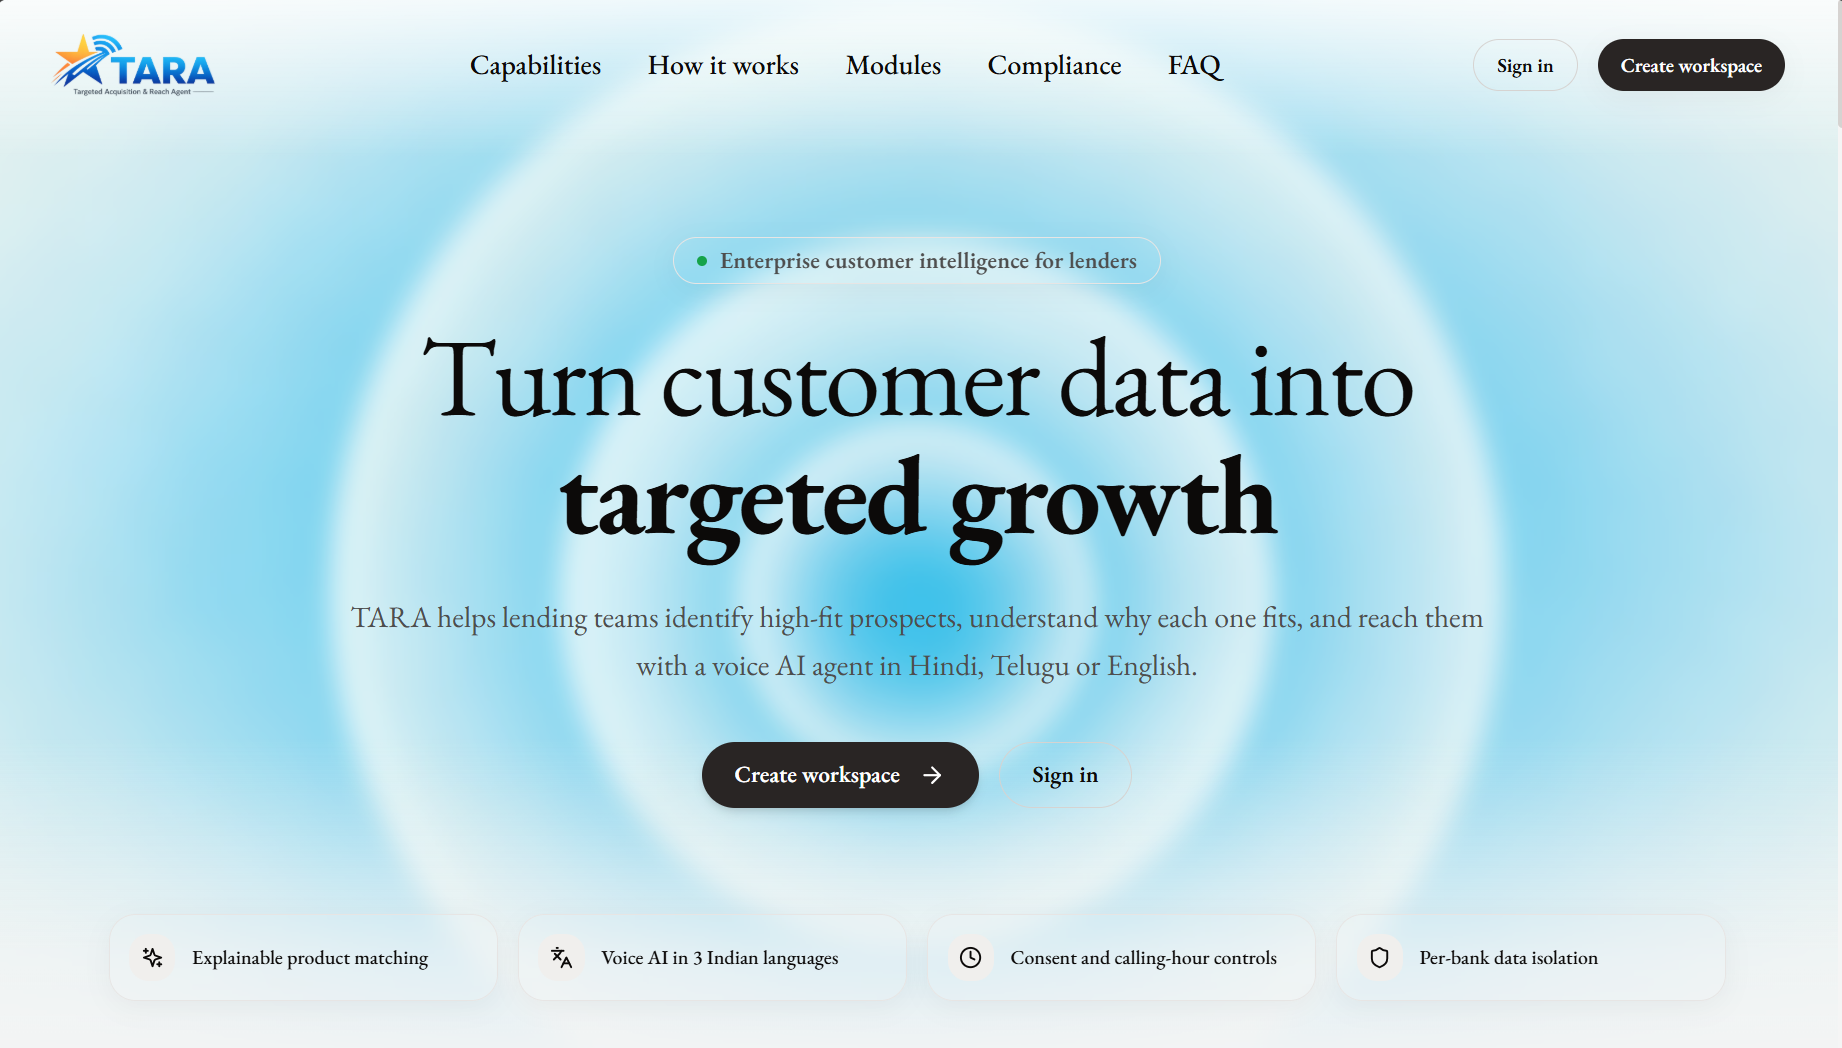
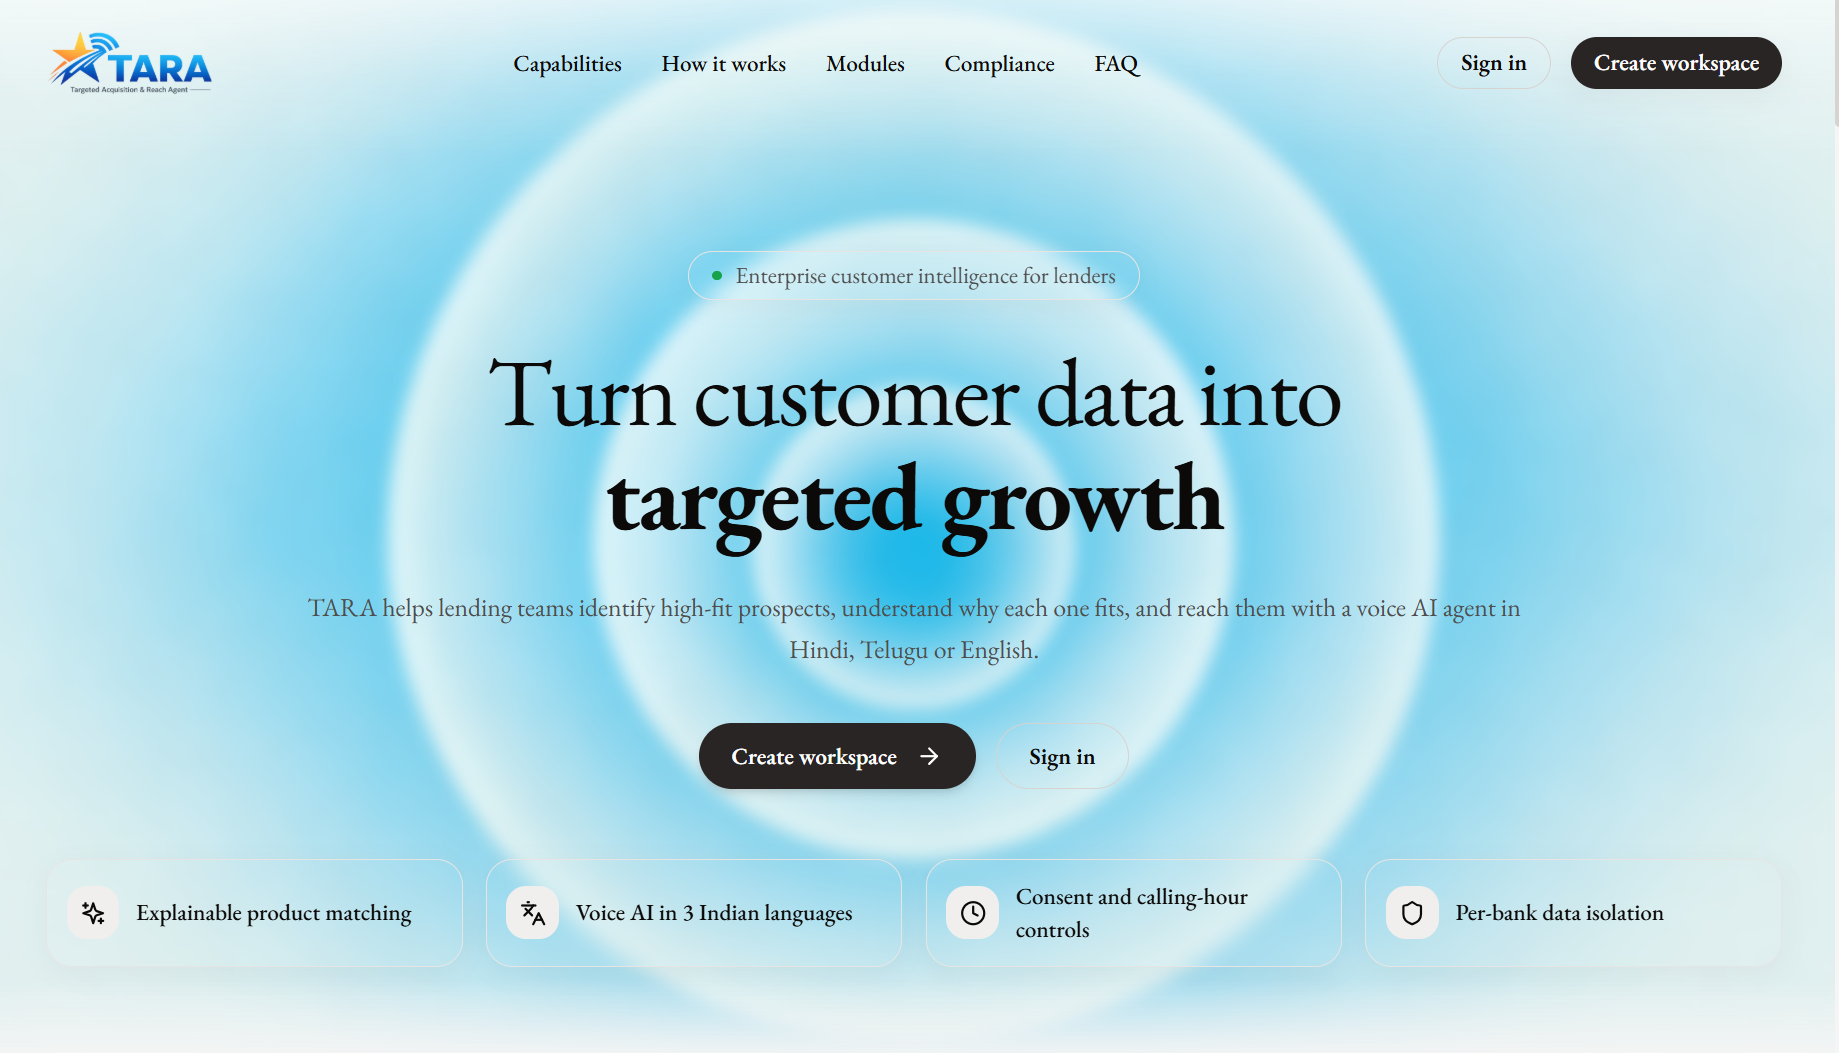
style(landing): add soft blur to hero background image

Changed region(s): [[0.031, 0.0, 0.8989, 0.9771], [0.8059, 0.0305, 0.9608, 0.0916], [0.031, 0.0305, 0.124, 0.0916]]

diff --git a/frontend/src/components/landing/HeroSection.jsx b/frontend/src/components/landing/HeroSection.jsx
@@ -16,9 +16,9 @@ export default function HeroSection() {
 
   return (
     <section className="relative isolate overflow-hidden min-h-screen min-h-[100dvh] w-full flex flex-col justify-between pt-20 sm:pt-24 lg:pt-28 pb-6 sm:pb-10 bg-[#d8eef3]">
-      {/* Background Hero Image - Full coverage across all aspect ratios & zoom levels */}
+      {/* Background Hero Image - Full coverage across all aspect ratios with soft blur */}
       <div
-        className="absolute inset-0 w-full h-full bg-cover bg-center bg-no-repeat pointer-events-none z-0"
+        className="absolute inset-0 w-full h-full bg-cover bg-center bg-no-repeat pointer-events-none z-0 filter blur-[5px] scale-[1.03]"
         style={{
           backgroundImage: "url('/hero.png')",
           backgroundPosition: "center center",
